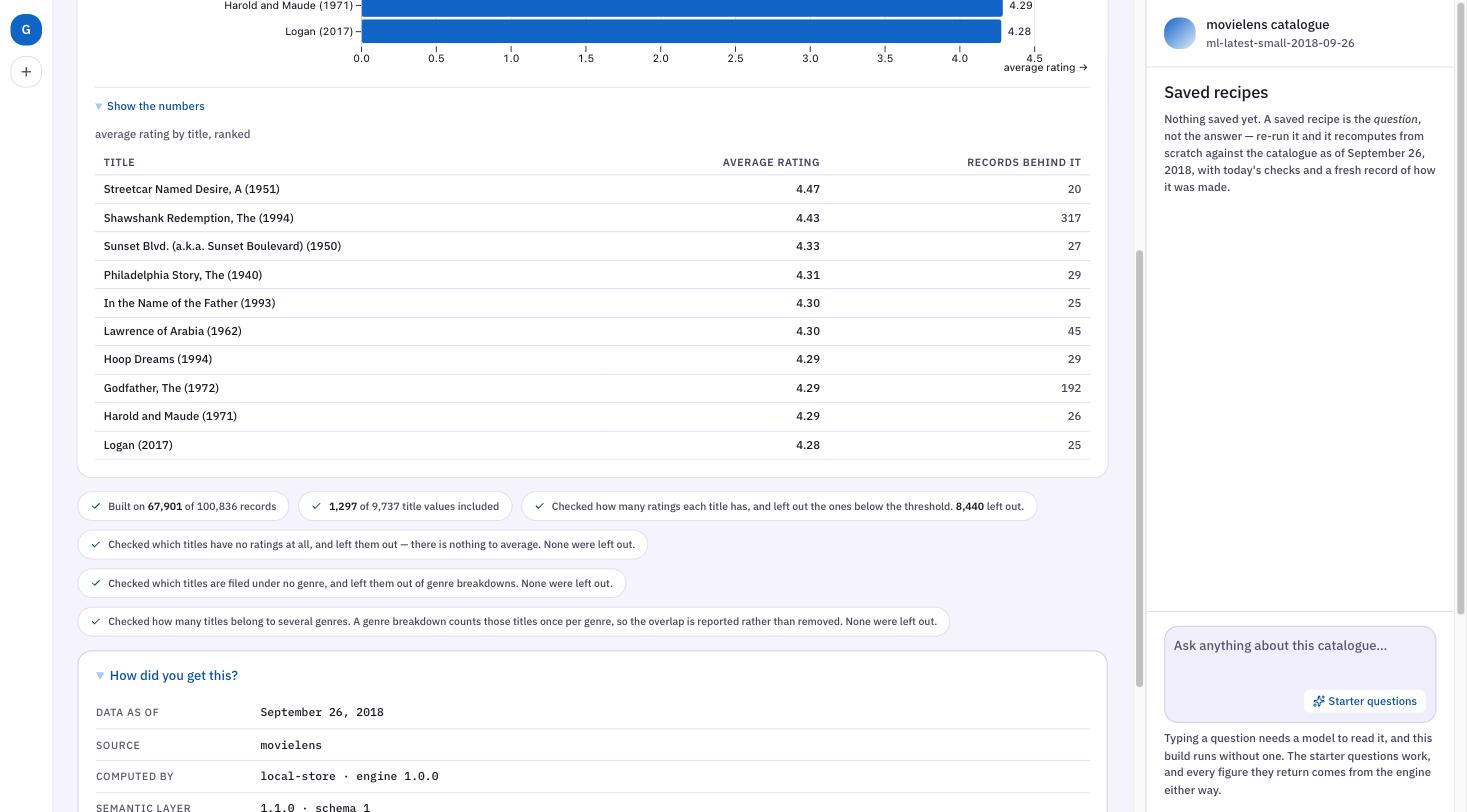
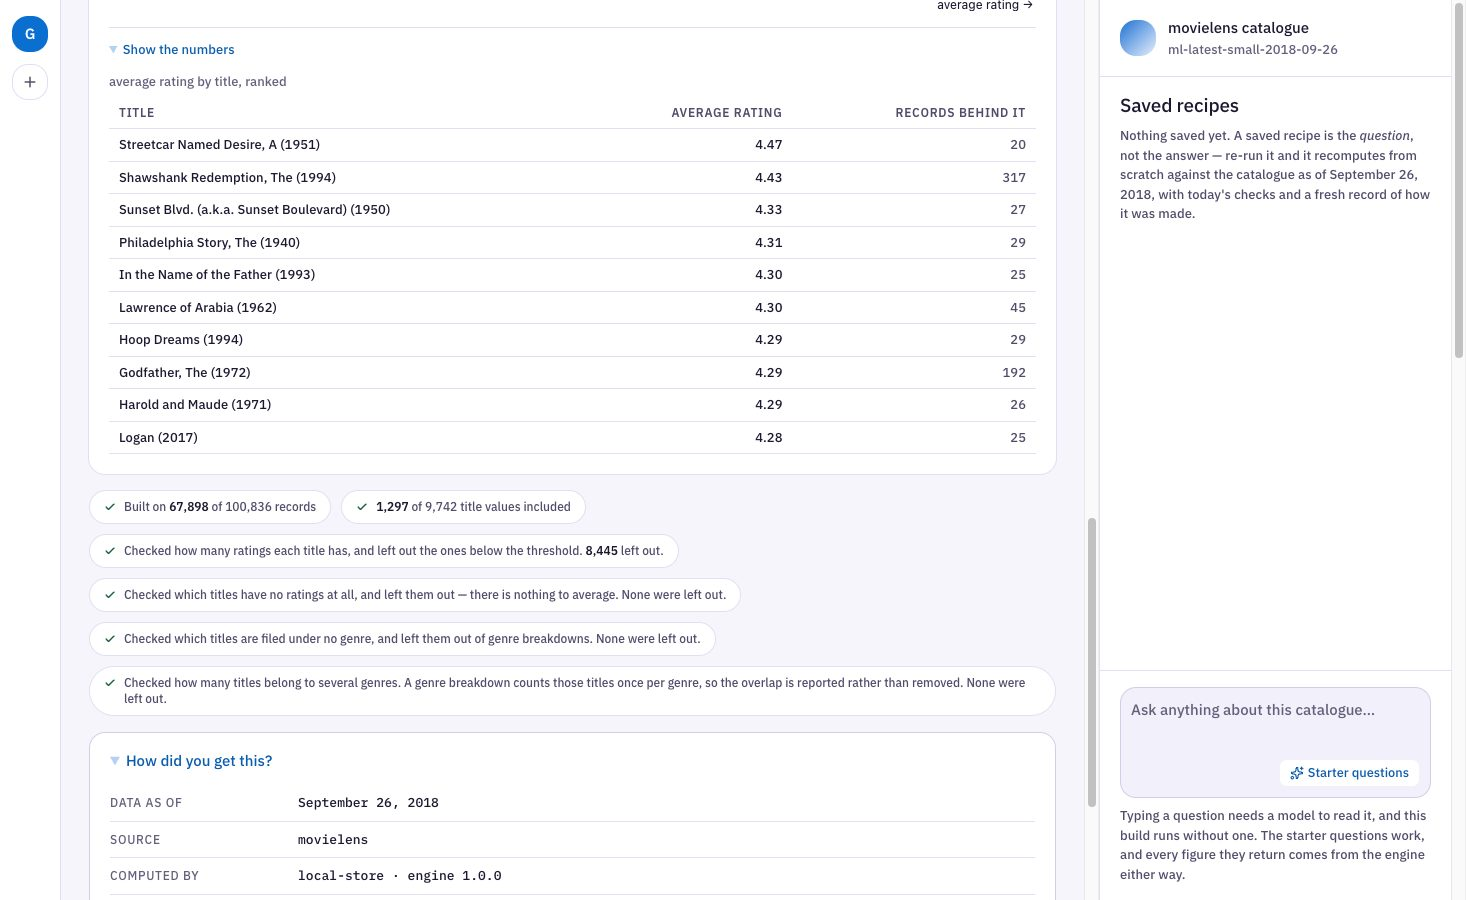
docs: screenshots of the catch, captured against the production build
`docs/screenshots/README.md` requires captures of the built app against the
production build, and requires replacing an image rather than adding a second
one when the screen changes. GA-12 changed that screen.

- `ga-12-the-catch.jpg` replaces `ga-10-answer-hero.jpg`. The catch now leads
  the hero answer and the takeaway moved into its head, so the old image was
  stale in its shape, not only its figures — and the increment that owns the
  screen changed with it.
- `ga-12-checks-off.jpg` — the escape taken: every check named as not applied,
  the trust strip down to coverage alone, and the way back.
- `ga-12-no-catch.jpg` — "Which titles have the most ratings?", where no check
  changed the answer and no block is drawn at all.
- `ga-10-numbers-and-provenance.jpg` re-captured in place. GA-12 did not touch
  the disclosures, but the image was asserting 9,737 title values and 67,901
  records against an engine since corrected to 9,742 and 67,898. A screenshot
  stating figures the engine does not produce is this product's own failure
  mode pointed at its documentation.
- `ga-10-zero-state.jpg` is unchanged and still current.

The captures were taken twice: the first pass was served by a `.next` built
before the takeaway's singular fix and showed "from 1 records", which is the
defect the escape exposed. Rebuilt and re-captured, so the images show the
committed code.

diff --git a/docs/screenshots/README.md b/docs/screenshots/README.md
@@ -12,8 +12,25 @@ on the compiled store, never mockups or renderings.
 | File | What it shows | Landed by |
 | --- | --- | --- |
 | `ga-10-zero-state.jpg` | The zero state: starter questions, the dataset named as provenance, and nothing computed | GA-10 |
-| `ga-10-answer-hero.jpg` | The hero moment answered — *A Streetcar Named Desire* 4.47 from 20 ratings — with the takeaway, the chart and the trust strip | GA-10 |
 | `ga-10-numbers-and-provenance.jpg` | "Show the numbers" and "How did you get this?" open: the semantic table behind the chart, and the answer's provenance | GA-10 |
+| `ga-12-the-catch.jpg` | The hero moment answered, led by the catch: 296 title values tied at 5.00 against *A Streetcar Named Desire* 4.47 from 20 records, the closing line, and the escape | GA-12 |
+| `ga-12-checks-off.jpg` | The escape taken — every check named as not applied, the trust strip down to coverage alone, and the way back | GA-12 |
+| `ga-12-no-catch.jpg` | A question no check changed: the takeaway, the chart and the trust strip, and **no comparison block at all** | GA-12 |
 
 A screenshot goes stale the moment the screen changes. Replace the file rather than adding
 a second one, and only keep an image a document or a pull request actually links to.
+
+**The `ga-NN-` prefix names the increment that owns the screen, not the date of the file.**
+GA-12 replaced `ga-10-answer-hero.jpg`: the catch now leads that screen and the takeaway
+moved into its head, so the image was not stale in its figures but in its *shape*, and the
+increment that owns it changed with it. `ga-10-numbers-and-provenance.jpg` kept its name —
+GA-12 did not touch the disclosures — but was re-captured, because it was asserting 9,737
+title values and 67,901 records against an engine that had since been corrected to 9,742
+and 67,898. A screenshot stating figures the engine does not produce is this product's own
+failure mode pointed at its documentation.
+
+**Answer-column captures are full-page captures.** On a wide viewport the shell owns the
+viewport height and only the ask column scrolls (`docs/architecture.md` §11), so the scroll
+container is `<main>` rather than the document and a plain full-page capture would still
+clip. The capture releases that one constraint and nothing else: the pixels are the ones a
+user scrolls through, unrolled.
